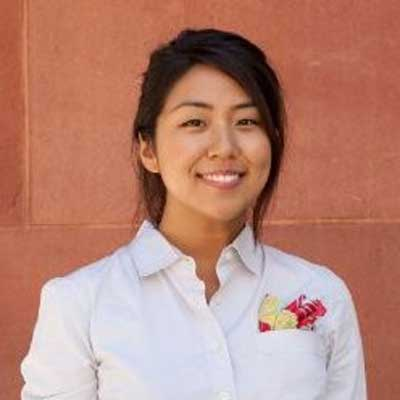
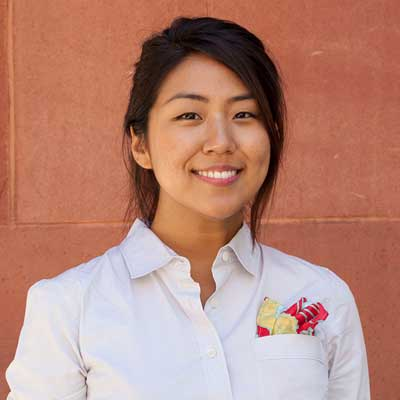
add photos

diff --git a/awards.html b/awards.html
@@ -37,7 +37,7 @@ redirect_from:
           <p>Web Developer, ISL</p>
         </li>
         <li>
-          <img src="/assets/awards-2018/dcft.jpg" aria-hidden>
+          <img src="/assets/awards-2018/code/clara.jpg" aria-hidden>
           <h3>Clara Popescu Brooks</h3>
           <p>Software Development Manager, FireEye, Inc. </p>
         </li>
